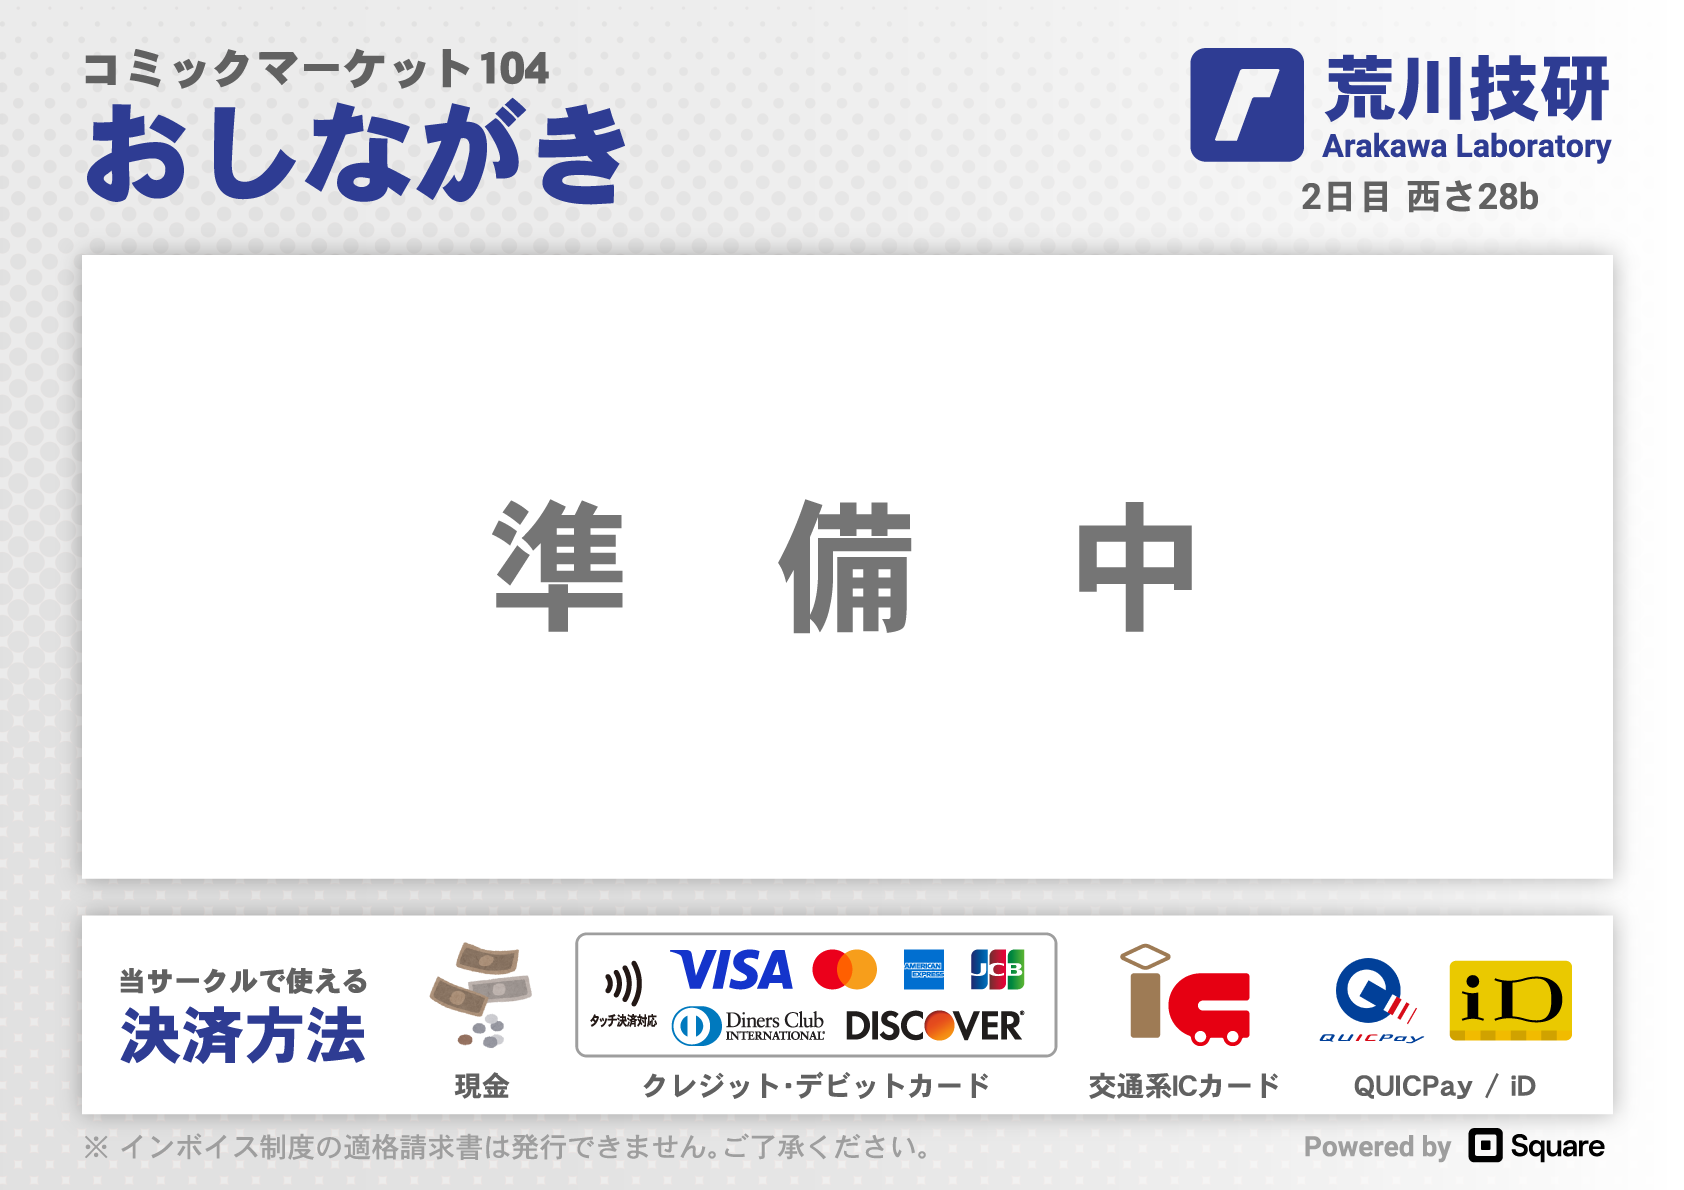
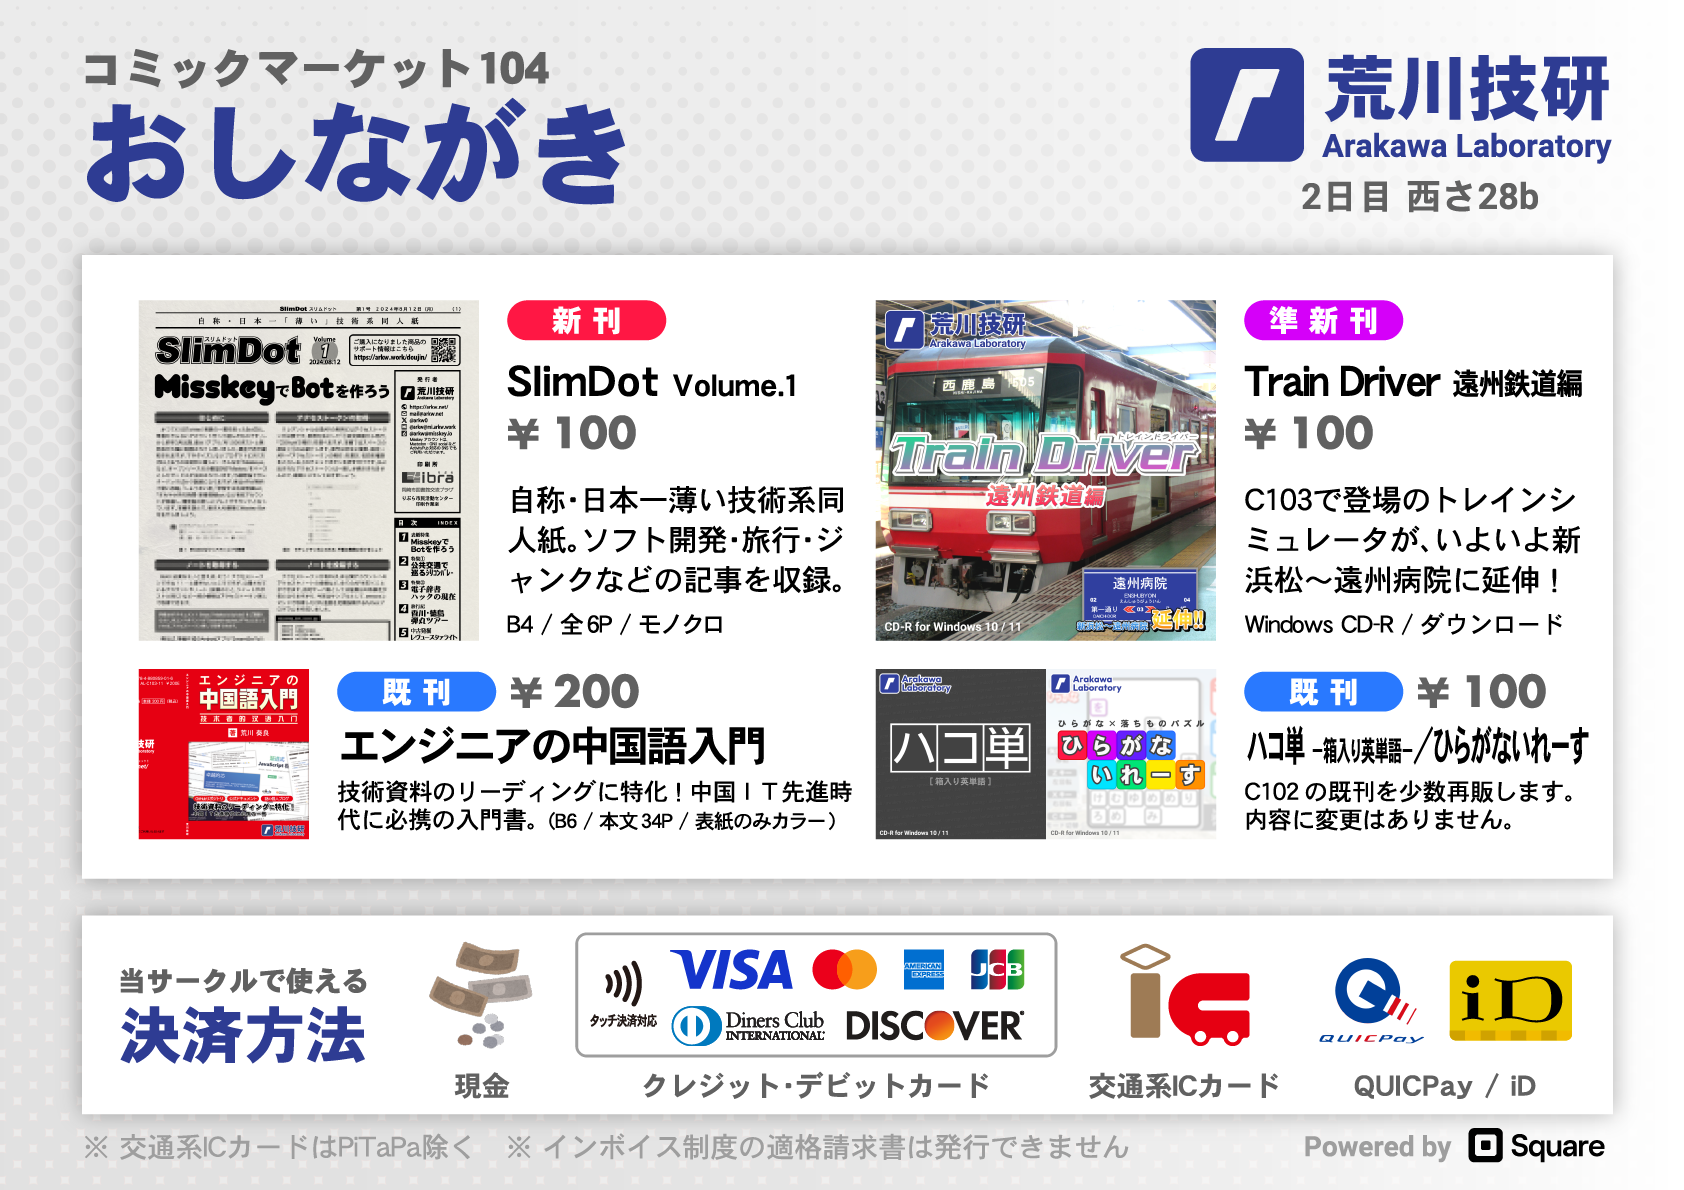
Update doujin

diff --git a/html/doujin/index.html b/html/doujin/index.html
@@ -79,17 +79,54 @@
 					>)
 				</p>
 				<p><img src="img/c104-oshinagaki.png" class="oshinagaki" /></p>
-				<ul>
-					<li>
-						CD-R商品はコミケ限定のオマケ付き!!
-						また、ディスクドライブをお持ちでない方向けにダウンロードオプションをご用意しています。
-					</li>
-					<li>
-						お支払いには現金の他、各種クレジット・デビットカード
-						(タッチ決済対応)
-						/各種交通系ICカード/QUICpay/iDをご利用いただけます。
-					</li>
-				</ul>
+				<div class="package">
+					<img src="img/slimdot.png" />
+				</div>
+				<p>
+					<b>新刊「SlimDot Volume.1」</b>　100円<br />
+					B4 / 全6ページ / モノクロ<br />
+					自称・日本一薄い技術系同人紙。ソフト開発・旅行・ジャンクなどの記事を収録。
+				</p>
+				<div class="package">
+					<img src="img/train_driver_entetsu.png" />
+				</div>
+				<p>
+					<b>準新刊「Train Driver 遠州鉄道編 &lt;遠州病院延伸版&gt;」</b
+					>　100円<br />
+					Windows 10 / 11対応CD-R + ダウンロード<br />
+					C103で登場のトレインシミュレータが、いよいよ新浜松～遠州病院に延伸!
+				</p>
+				<div class="package">
+					<img src="img/engineer_cn.png" />
+				</div>
+				<p>
+					<b>C103既刊「エンジニアの中国語入門」</b>　200円<br />
+					B6 / 本文34ページ / 表紙のみカラー
+				</p>
+				<div class="package">
+					<img src="img/hakotan.png" /><img src="img/hiragana_erase.png" />
+				</div>
+				<p>
+					<b>C102既刊「ハコ単 -箱入り英単語-」「ひらがないれーす」</b
+					>　各100円<br />
+					Windows 10 / 11対応CD-R + ダウンロード
+				</p>
+				<p>
+					・CD-R商品はディスクドライブをお持ちでない方向けダウンロードサービスとオマケ付き!<br />
+					・お支払いには現金の他、各種クレジットカード/交通系ICカード/QUICpay/iDをご利用いただけます。<br />
+					・2日目 東ピ-21b「RYOTEI」(<a
+						href="https://webcatalog-free.circle.ms/Circle/19013296"
+						target="blank"
+						>Web Catalog</a
+					>
+					/
+					<a
+						href="https://webcatalog-free.circle.ms/Circle/Map/19013296/2"
+						target="blank"
+						>会場MAP</a
+					>) で頒布予定の「おでかけ好きな人の旅程だけ集めた本
+					Vol.3」に拙稿が収録されます。併せてお買い求めください。
+				</p>
 				<br />
 				<h1>コミックマーケット103</h1>
 				<p>
@@ -327,7 +364,7 @@
 				<a href="https://arkw.net/">
 					<img src="img/arakawa.svg" width="160" /> </a
 				><br />
-				最終更新日 : 2024年6月9日<br />
+				最終更新日 : 2024年8月6日<br />
 				(c) 2021-2024 Sora Arakawa all rights reserved.
 			</div>
 		</div>
